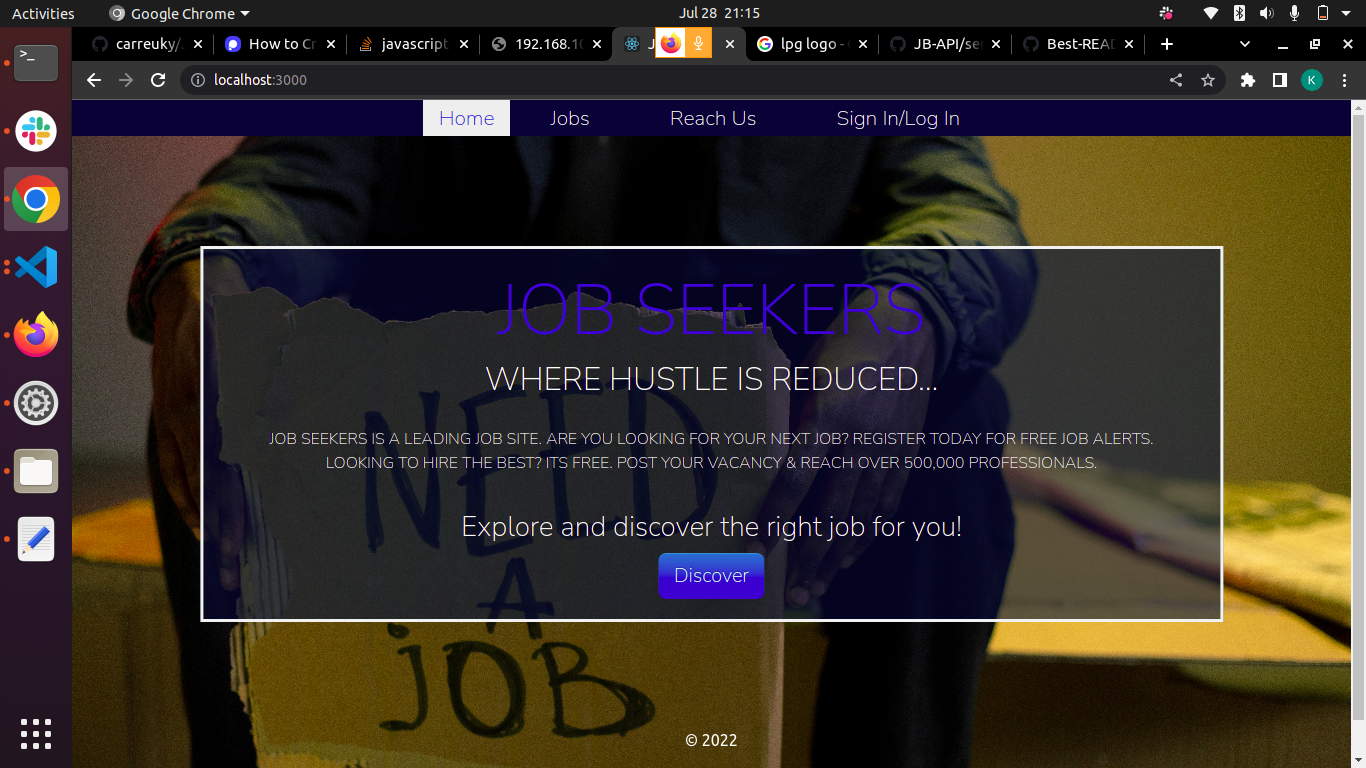
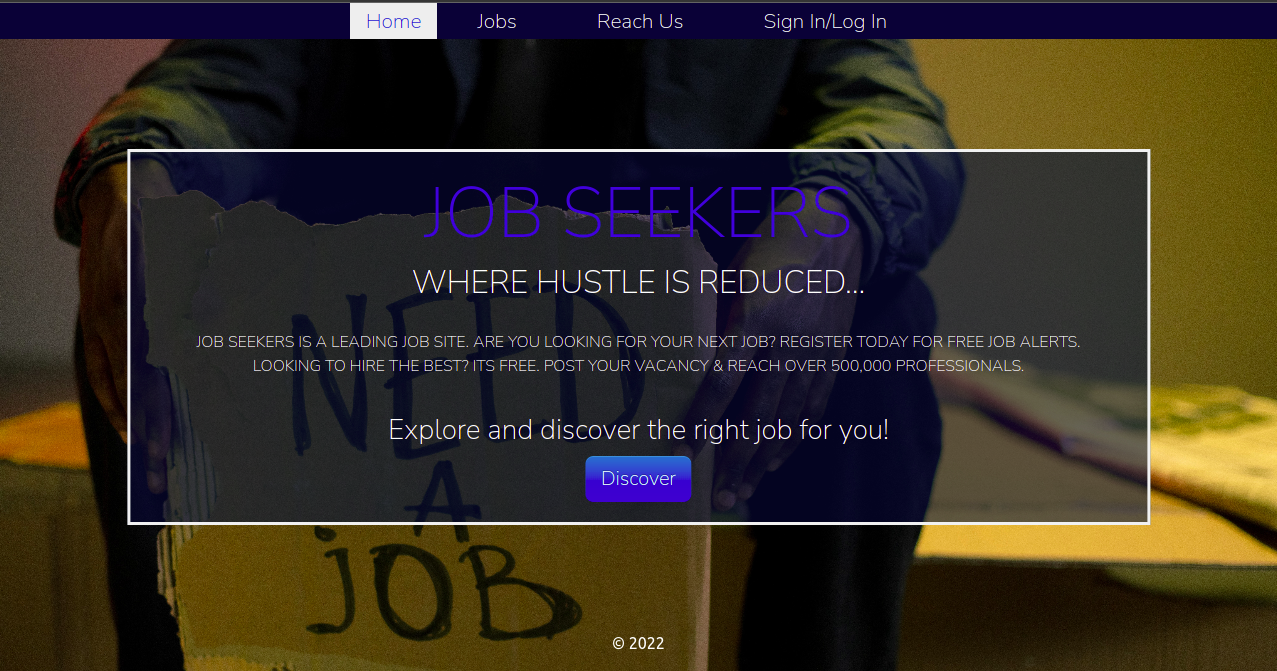
readme done

diff --git a/README.md b/README.md
@@ -1,12 +1,10 @@
-# JobsPortal
+# Jobs Seekers
 
-#### Created By Kelvin Nderitu on 24-07-2022
-
-
+#### Created By Kelvin Nderitu on 28-07-2022
 
 ## Description
 
-Jobs Portal is a a website that provides a way to create, delete and retrieve jobs.
+Jobs Seekers is a website that provides a way to create, delete and retrieve jobs. Reduces the hustle of job applicants access websites of their desired companies to work for.
 
 ## Setup Requirements
 
@@ -18,19 +16,19 @@ Jobs Portal is a a website that provides a way to create, delete and retrieve jo
 
 ### Installation
 
-_Below is an example of how you can instruct your audience on installing and setting up your app. This template doesn't rely on any external dependencies or services._
+_Below is the is how you can install and setup my app. This template doesn't rely on any external dependencies or services._
 
-1. Get a free API Key at [https://example.com](https://example.com)
-2. Clone the repo
+1. Clone the repo
    ```sh
-   git@github.com:carreuky/Job-Portal.git
+   git clone https://github.com/your_username_/Project-Name.git
    ```
-3. Install NPM packages
+2. Install NPM packages
    ```sh
    npm install
    ```
 
 <!-- USAGE EXAMPLES -->
+
 ## Technologies Used
 
 The following have been used on this project:
@@ -40,21 +38,17 @@ The following have been used on this project:
 - Bootstrap
 - React JS
 
-
-
 #### Live link to view the project <a href="https://drive.google.com/file/d/1LGem62hwxZxwGbvzhkbdNgb_6cAf8Oqa/view?usp=sharing">View Jobs Portal</a>
 
-
-
-## Screenshots Of the Figma Design
+## Screenshots of the Web Application
 
 - Homepage
 
-  <img src="https://drive.google.com/file/d/1u6viDOzejF8SRhYwTk5Dcd8FHoWJTucA/view?usp=sharing" alt="screenshot" />
+  <img src="./public/images/jb.png" alt="screenshot" />
 
 - Job Details
 
-  <img src="https://drive.google.com/file/d/1NFDFL-OrFzD4FFOpw8yWMkqBy3O1xEnn/view?usp=sharing" alt="screenshot" />
+  <img src="./public/images/jb1.png" alt="screenshot" />
 
 <!-- - Create Job Form Page
 
@@ -84,7 +78,7 @@ To make a contribution to the code used or any suggestions you can click on the 
 
 ## License
 
-Copyright (c) 2022 Wilson Kinyua Muthoni.
+Copyright (c) 2022 Kelvin Nderitu.
 
 Permission is hereby granted, free of charge, to any person obtaining a copy
 of this software and associated documentation files , to deal
